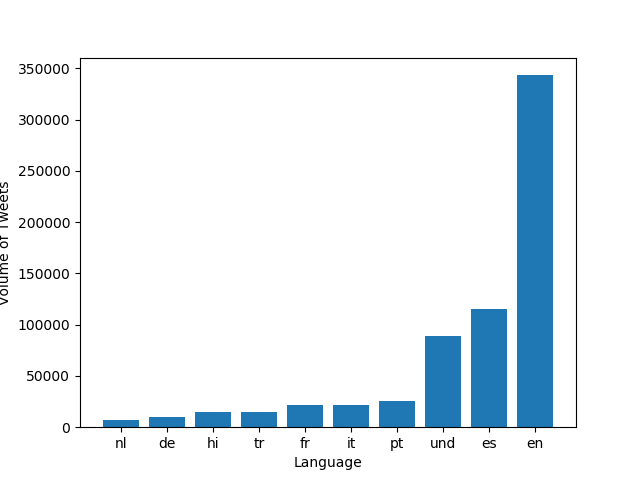
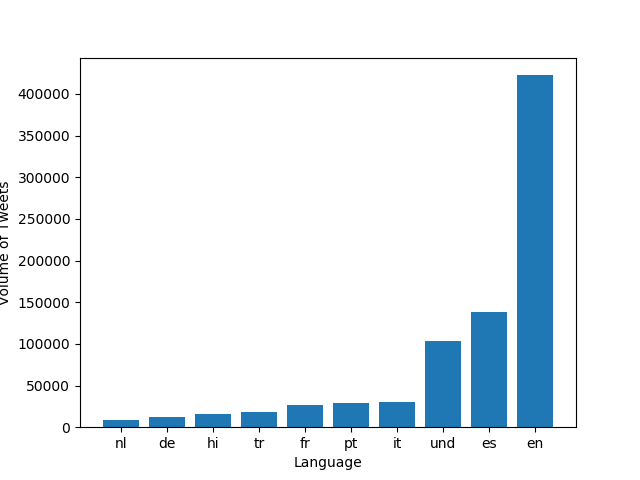
pls work

diff --git a/src/map.py b/src/map.py
@@ -4,7 +4,7 @@
 import argparse
 parser = argparse.ArgumentParser()
 parser.add_argument('--input_path',required=True)
-parser.add_argument('--output_folder',default='outputs')
+parser.add_argument('--output_folder',default='outputs_1')
 args = parser.parse_args()
 
 # imports
@@ -82,10 +82,10 @@ except FileExistsError:
     pass
 output_path_base = os.path.join(args.output_folder,os.path.basename(args.input_path))
 
-#output_path_lang = output_path_base+'.lang'
-#print('saving',output_path_lang)
-#with open(output_path_lang,'w') as f:
-#    f.write(json.dumps(counter_lang))
+output_path_lang = output_path_base+'.lang'
+print('saving',output_path_lang)
+with open(output_path_lang,'w') as f:
+    f.write(json.dumps(counter_lang))
     
 output_path_country = output_path_base+'.country'
 print('saving',output_path_country)

diff --git a/src/reduce.py b/src/reduce.py
@@ -15,10 +15,13 @@ from collections import Counter,defaultdict
 # load each of the input paths
 total = defaultdict(lambda: Counter())
 for path in args.input_paths:
-    with open(path) as f:
-        tmp = json.load(f)
-        for k in tmp:
-            total[k] += tmp[k]
+    try:
+        with open(path) as f:
+            tmp = json.load(f)
+            for k in tmp:
+                total[k] += tmp[k]
+    except json.decoder.JSONDecodeError:
+        print(f"Skipping invalid JSON file: {path}")
 
 # write the output path
 with open(args.output_path,'w') as f:

diff --git a/src/visualize.py b/src/visualize.py
@@ -58,7 +58,7 @@ plt.rcParams['font.family'] = 'NanumGothic'
 ## Set the title of the plot
 #plt.title("#Coronavirus Occurrences in each Language on Twitter")
 
-plt.savefig("covid_country_ko")
+plt.savefig("covid_country_ko.png")
 
 # Display the plot
 plt.show()

diff --git a/alternative_reduce.py b/alternative_reduce.py
@@ -16,7 +16,7 @@ import os
 import json
 from collections import Counter,defaultdict
 
-file_paths = glob.glob('outputs/geoTwitter*.country')
+file_paths = glob.glob('outputs_1/geoTwitter*.country')
 results = {}
 
 # load each of the input paths

diff --git a/README.md b/README.md
@@ -12,11 +12,11 @@ Approximately 500 million tweets are sent everyday. Of those tweets, about 2% ar
 I followed the MapReduce procedure to analyze these tweets. I started by creating files that analyze each day of tweets and create individual files that that track the usage of the hashtags on a both a language and a county level. I then concatenate all the data in the files into two files based on language and country
 
 ```
-$ ./src/reduce.py --input_paths outputs/geoTwitter*.lang --output_path=reduced.lang
+$ ./src/reduce.py --input_paths outputs_1/geoTwitter*.lang --output_path=reduced.lang_1
 ```
 
 ```
-$ ./src/reduce.py --input_paths outputs/geoTwitter*.country --output_path=reduced.country_2
+$ ./src/reduce.py --input_paths outputs_1/geoTwitter*.country --output_path=reduced.country_1
 ```
 
 # Visualize the Data
@@ -24,7 +24,7 @@ $ ./src/reduce.py --input_paths outputs/geoTwitter*.country --output_path=reduce
 I wanted to visualize the usage of `#coronavirus` by language and country. If I were to visualize this data for all languages and all countries, the data would look messy so I filter down to the top 10 languages and countries that used `#coronavirus`. 
 
 ```
-$ ./src/visualize.py --input_path=reduced.lang --key='#coronavirus'
+$ ./src/visualize.py --input_path=reduced.lang_1 --key='#coronavirus'
 ```
 
 # Volume of Tweets with #coronavirus in 2020 (Top 10 Languages)
@@ -32,7 +32,7 @@ $ ./src/visualize.py --input_path=reduced.lang --key='#coronavirus'
 <img src=covid_1.png width=100% />
 
 ```
-$ ./src/visualize.py --input_path=reduced.country_2 --key='#coronavirus'
+$ ./src/visualize.py --input_path=reduced.country_1 --key='#coronavirus'
 ```
 
 # Volume of Tweets with #coronavirus in 2020 (Top 10 Countries)
@@ -42,7 +42,7 @@ $ ./src/visualize.py --input_path=reduced.country_2 --key='#coronavirus'
 I then wanted to visualize the usage of `#코로나바이러스` by language and country.If I were to visualize this data for all languages and all countries, the data would look messy so I filter down to the top 10 languages and countries that used `#코로나바이러스`.
 
 ```
-$ ./src/visualize.py --input_path=reduced.lang --key='#코로나바이러스'
+$ ./src/visualize.py --input_path=reduced.lang_1 --key='#코로나바이러스'
 ```
 
 # Volume of Tweets with #코로나바이러스 in 2020 (Top 10 Languages)
@@ -50,7 +50,7 @@ $ ./src/visualize.py --input_path=reduced.lang --key='#코로나바이러스'
 <img src=covid_2.png width=100% />
 
 ```
-$ ./src/visualize.py --input_path=reduced.country_2 --key='#코로나바이러스'
+$ ./src/visualize.py --input_path=reduced.country_1 --key='#코로나바이러스'
 ```
 
 # Volume of Tweets with #코로나바이러스 in 2020 (Top 10 Countries)
